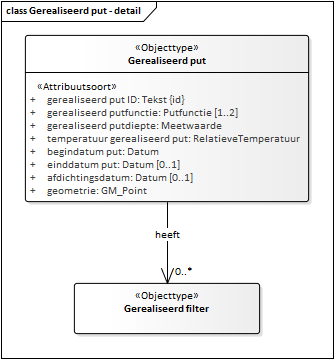
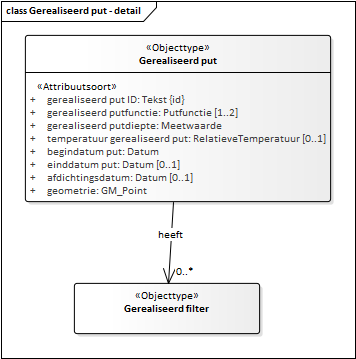
Conceptualmodel-GrondwatergebruikGUFconceptueel-0.1-1-20200401-20210107-141125

diff --git a/data/GUF-cat.msword.html b/data/GUF-cat.msword.html
@@ -15,7 +15,7 @@
    <body>
       <p>Conceptual model/Grondwatergebruik (GUF) conceptueel/20200401</p>
       <p>Imvertor: 1.62.2</p>
-      <p>Model release: Conceptualmodel-GrondwatergebruikGUFconceptueel-0.1-1-20200401-20210105-161013</p>
+      <p>Model release: Conceptualmodel-GrondwatergebruikGUFconceptueel-0.1-1-20200401-20210107-141125</p>
       <hr>
       <section>
          <h1>Artikel 1 Definitie van registratieobject, entiteiten en attributen</h1>
@@ -63,7 +63,7 @@
          <section>
             <h2>Het domeinmodel</h2>
             <section id="">
-               <div class="imageinfo overview"><img src="Images/EAID_56F5F935_4109_4da0_A034_9EA7B40769E1.png" usemap="#imagemap-EAID_56F5F935_4109_4da0_A034_9EA7B40769E1" alt="Diagram "><map name="imagemap-EAID_56F5F935_4109_4da0_A034_9EA7B40769E1"><area shape="rect" alt="Gerealiseerd bodemlus" coords="620,870,850,1016" href="#graph_EAID_D45703EE_CCD5_434c_A478_BFA48D1A9DCB"><area shape="rect" alt="Gerealiseerd oppervlakteinfiltratie" coords="867,870,1122,988" href="#graph_EAID_8F717FBD_49AE_47b7_80F3_B91D0A2E3D0C"><area shape="rect" alt="Ontwerpoppervlakteinfiltratie" coords="289,1098,523,1205" href="#graph_EAID_48E92D7E_DFE4_4e1a_9CBF_EF96B0324D5C"><area shape="rect" alt="Filtertraject" coords="29,907,264,996" href="#graph_EAID_F9C69DF7_57F6_4a2e_AB62_ABBE414B3C9B"><area shape="rect" alt="Tussentijdse gebeurtenis" coords="1107,434,1315,523" href="#graph_EAID_98E530BE_5699_451a_8FC6_9C326ADD0528"><area shape="rect" alt="Systeemgeschiedenis" coords="1115,290,1307,379" href="#graph_EAID_2BD94CFC_4D2B_498d_96DC_DF9DE395E7C4"><area shape="rect" alt="Ontwerpbodemlus" coords="59,1098,275,1213" href="#graph_EAID_B81BCB5C_B9C7_42d9_9F9E_3F76580BB410"><area shape="rect" alt="Ontwerpput" coords="537,1098,821,1269" href="#graph_EAID_FC483397_9430_4114_AE54_A7BE5A654EA9"><area shape="rect" alt="Energiekenmerken" coords="25,634,356,853" href="#graph_EAID_F60FFCA9_A741_4d37_8DFE_FC87122B9777"><area shape="rect" alt="Maximale waterverplaatsing" coords="25,494,271,622" href="#graph_EAID_D88F2231_8D52_4bac_AE7F_55102360A23B"><area shape="rect" alt="Gebruiksdoel systeem" coords="25,379,313,481" href="#graph_EAID_DB9B3E32_EE42_4c47_A5CC_5AE7B58A2D13"><area shape="rect" alt="Gerealiseerd installatie" coords="956,610,1195,751" href="#graph_EAID_45C4EF5D_AC27_47cc_926D_7F514776B53D"><area shape="rect" alt="Gerealiseerd filter" coords="1180,1104,1383,1232" href="#graph_EAID_9D151445_53ED_4738_9920_071518BB50C1"><area shape="rect" alt="Recht grondwatergebruik" coords="401,389,684,547" href="#graph_EAID_1A591F8A_2ECC_4122_86C9_26BFA5C5420E"><area shape="rect" alt="Gerealiseerd put" coords="1139,870,1426,1037" href="#graph_EAID_F75BA1C9_02EB_48e6_B9A8_A018120E2279"><area shape="rect" alt="Ontwerpinstallatie" coords="407,610,745,771" href="#graph_EAID_DB2636FB_090C_4af0_AA40_4301B23795E2"><area shape="rect" alt="Registratiegeschiedenis" coords="25,120,301,339" href="#graph_EAID_C00FA7D7_7F78_413d_80CC_8F5D41996171"><area shape="rect" alt="Grondwatergebruiksysteem" coords="650,145,920,314" href="#graph_EAID_048DC684_486B_4605_B9CA_40413DB3C9DC"><area shape="rect" alt="Registratieobject" coords="710,35,829,78" href="#graph_EAID_2AC7632D_D0CE_4468_8510_855B506BE12A"></map><p><b>Domeinmodel GUF conceptueel</b></p>
+               <div class="imageinfo overview"><img src="Images/EAID_56F5F935_4109_4da0_A034_9EA7B40769E1.png" usemap="#imagemap-EAID_56F5F935_4109_4da0_A034_9EA7B40769E1" alt="Diagram "><map name="imagemap-EAID_56F5F935_4109_4da0_A034_9EA7B40769E1"><area shape="rect" alt="Gerealiseerd bodemlus" coords="620,870,850,1016" href="#graph_EAID_D45703EE_CCD5_434c_A478_BFA48D1A9DCB"><area shape="rect" alt="Gerealiseerd oppervlakteinfiltratie" coords="867,870,1122,988" href="#graph_EAID_8F717FBD_49AE_47b7_80F3_B91D0A2E3D0C"><area shape="rect" alt="Ontwerpoppervlakteinfiltratie" coords="289,1098,523,1205" href="#graph_EAID_48E92D7E_DFE4_4e1a_9CBF_EF96B0324D5C"><area shape="rect" alt="Filtertraject" coords="29,907,264,996" href="#graph_EAID_F9C69DF7_57F6_4a2e_AB62_ABBE414B3C9B"><area shape="rect" alt="Tussentijdse gebeurtenis" coords="1107,434,1315,523" href="#graph_EAID_98E530BE_5699_451a_8FC6_9C326ADD0528"><area shape="rect" alt="Systeemgeschiedenis" coords="1115,290,1307,379" href="#graph_EAID_2BD94CFC_4D2B_498d_96DC_DF9DE395E7C4"><area shape="rect" alt="Ontwerpbodemlus" coords="59,1098,275,1213" href="#graph_EAID_B81BCB5C_B9C7_42d9_9F9E_3F76580BB410"><area shape="rect" alt="Ontwerpput" coords="537,1098,821,1269" href="#graph_EAID_FC483397_9430_4114_AE54_A7BE5A654EA9"><area shape="rect" alt="Energiekenmerken" coords="25,634,356,853" href="#graph_EAID_F60FFCA9_A741_4d37_8DFE_FC87122B9777"><area shape="rect" alt="Maximale waterverplaatsing" coords="25,494,271,622" href="#graph_EAID_D88F2231_8D52_4bac_AE7F_55102360A23B"><area shape="rect" alt="Gebruiksdoel systeem" coords="25,379,313,481" href="#graph_EAID_DB9B3E32_EE42_4c47_A5CC_5AE7B58A2D13"><area shape="rect" alt="Gerealiseerd installatie" coords="956,610,1195,751" href="#graph_EAID_45C4EF5D_AC27_47cc_926D_7F514776B53D"><area shape="rect" alt="Gerealiseerd filter" coords="1180,1104,1383,1232" href="#graph_EAID_9D151445_53ED_4738_9920_071518BB50C1"><area shape="rect" alt="Recht grondwatergebruik" coords="401,389,684,547" href="#graph_EAID_1A591F8A_2ECC_4122_86C9_26BFA5C5420E"><area shape="rect" alt="Gerealiseerd put" coords="1139,870,1445,1037" href="#graph_EAID_F75BA1C9_02EB_48e6_B9A8_A018120E2279"><area shape="rect" alt="Ontwerpinstallatie" coords="407,610,745,771" href="#graph_EAID_DB2636FB_090C_4af0_AA40_4301B23795E2"><area shape="rect" alt="Registratiegeschiedenis" coords="25,120,301,339" href="#graph_EAID_C00FA7D7_7F78_413d_80CC_8F5D41996171"><area shape="rect" alt="Grondwatergebruiksysteem" coords="650,145,920,314" href="#graph_EAID_048DC684_486B_4605_B9CA_40413DB3C9DC"><area shape="rect" alt="Registratieobject" coords="710,35,829,78" href="#graph_EAID_2AC7632D_D0CE_4468_8510_855B506BE12A"></map><p><b>Domeinmodel GUF conceptueel</b></p>
                </div>
             </section>
          </section>
@@ -443,7 +443,7 @@
                            </tr>
                         </tbody>
                      </table>
-                     </section><a class="anchor" id="detail_d50283e1671"></a><section id="detail_d50283e1671">
+                     </section><a class="anchor" id="detail_d50266e1671"></a><section id="detail_d50266e1671">
                      <h4>  registratiegeschiedenis</h4>
                      
                      
@@ -496,7 +496,7 @@
                            </tr>
                         </tbody>
                      </table>
-                     </section><a class="anchor" id="detail_d50283e1905"></a><section id="detail_d50283e1905">
+                     </section><a class="anchor" id="detail_d50266e1905"></a><section id="detail_d50266e1905">
                      <h4>  systeemgeschiedenis</h4>
                      
                      
@@ -1412,17 +1412,6 @@
                                  </td>
                            </tr>
                            <tr>
-                              <th>Mogelijk geen waarde</th>
-                              <td>Ja</td>
-                           </tr>
-                           <tr>
-                              <th>Reden geen waarde</th>
-                              <td>
-                                 
-                                 <p>Voor IMBRO/A-gegevens mag de waarde ontbreken.</p>
-                                 </td>
-                           </tr>
-                           <tr>
                               <th>Toelichting</th>
                               <td>
                                  
@@ -1519,7 +1508,7 @@
                            </tr>
                         </tbody>
                      </table>
-                     </section><a class="anchor" id="detail_d50283e5761"></a><section id="detail_d50283e5761">
+                     </section><a class="anchor" id="detail_d50266e5724"></a><section id="detail_d50266e5724">
                      <h4>  gebruiksdoel systeem</h4>
                      
                      
@@ -1564,7 +1553,7 @@
                            </tr>
                         </tbody>
                      </table>
-                     </section><a class="anchor" id="detail_d50283e5951"></a><section id="detail_d50283e5951">
+                     </section><a class="anchor" id="detail_d50266e5914"></a><section id="detail_d50266e5914">
                      <h4>  maximale waterverplaatsing</h4>
                      
                      
@@ -2449,7 +2438,7 @@
                            </tr>
                         </tbody>
                      </table>
-                     </section><a class="anchor" id="detail_d50283e9064"></a><section id="detail_d50283e9064">
+                     </section><a class="anchor" id="detail_d50266e9027"></a><section id="detail_d50266e9027">
                      <h4>  maximale waterverplaatsing</h4>
                      
                      
@@ -2515,7 +2504,7 @@
                            </tr>
                         </tbody>
                      </table>
-                     </section><a class="anchor" id="detail_d50283e9409"></a><section id="detail_d50283e9409">
+                     </section><a class="anchor" id="detail_d50266e9372"></a><section id="detail_d50266e9372">
                      <h4>  energiekenmerken</h4>
                      
                      
@@ -4087,7 +4076,7 @@
                            </tr>
                         </tbody>
                      </table>
-                     </section><a class="anchor" id="detail_d50283e15232"></a><section id="detail_d50283e15232">
+                     </section><a class="anchor" id="detail_d50266e15195"></a><section id="detail_d50266e15195">
                      <h4>  filtertraject</h4>
                      
                      
@@ -5268,7 +5257,7 @@
                      </section>
                </section><a class="anchor" id="graph_EAID_F75BA1C9_02EB_48e6_B9A8_A018120E2279"></a><a class="anchor" id="global_class_Model_Gerealiseerdput"></a><section id="global_class_Model_Gerealiseerdput">
                   <h3>   Gerealiseerd put</h3>
-                  <div class="imageinfo "><img src="Images/EAID_9891EB15_9DE2_40c7_99BC_F2D1752DFAA5.png" usemap="#imagemap-EAID_9891EB15_9DE2_40c7_99BC_F2D1752DFAA5" alt="Diagram "><map name="imagemap-EAID_9891EB15_9DE2_40c7_99BC_F2D1752DFAA5"><area shape="rect" alt="Gerealiseerd filter" coords="74,283,260,334" href="#graph_EAID_9D151445_53ED_4738_9920_071518BB50C1"><area shape="rect" alt="Gerealiseerd put" coords="25,35,309,202" href="#graph_EAID_F75BA1C9_02EB_48e6_B9A8_A018120E2279"></map><p><b></b></p>
+                  <div class="imageinfo "><img src="Images/EAID_9891EB15_9DE2_40c7_99BC_F2D1752DFAA5.png" usemap="#imagemap-EAID_9891EB15_9DE2_40c7_99BC_F2D1752DFAA5" alt="Diagram "><map name="imagemap-EAID_9891EB15_9DE2_40c7_99BC_F2D1752DFAA5"><area shape="rect" alt="Gerealiseerd filter" coords="74,283,260,334" href="#graph_EAID_9D151445_53ED_4738_9920_071518BB50C1"><area shape="rect" alt="Gerealiseerd put" coords="25,35,331,202" href="#graph_EAID_F75BA1C9_02EB_48e6_B9A8_A018120E2279"></map><p><b></b></p>
                   </div>
                   <table style="width: 100%;">
                      <colgroup style="width: 30%;"></colgroup>
@@ -5493,7 +5482,7 @@
                            </tr>
                            <tr>
                               <th>Kardinaliteit</th>
-                              <td>1</td>
+                              <td>0..1</td>
                            </tr>
                            <tr>
                               <th>Domein</th>
